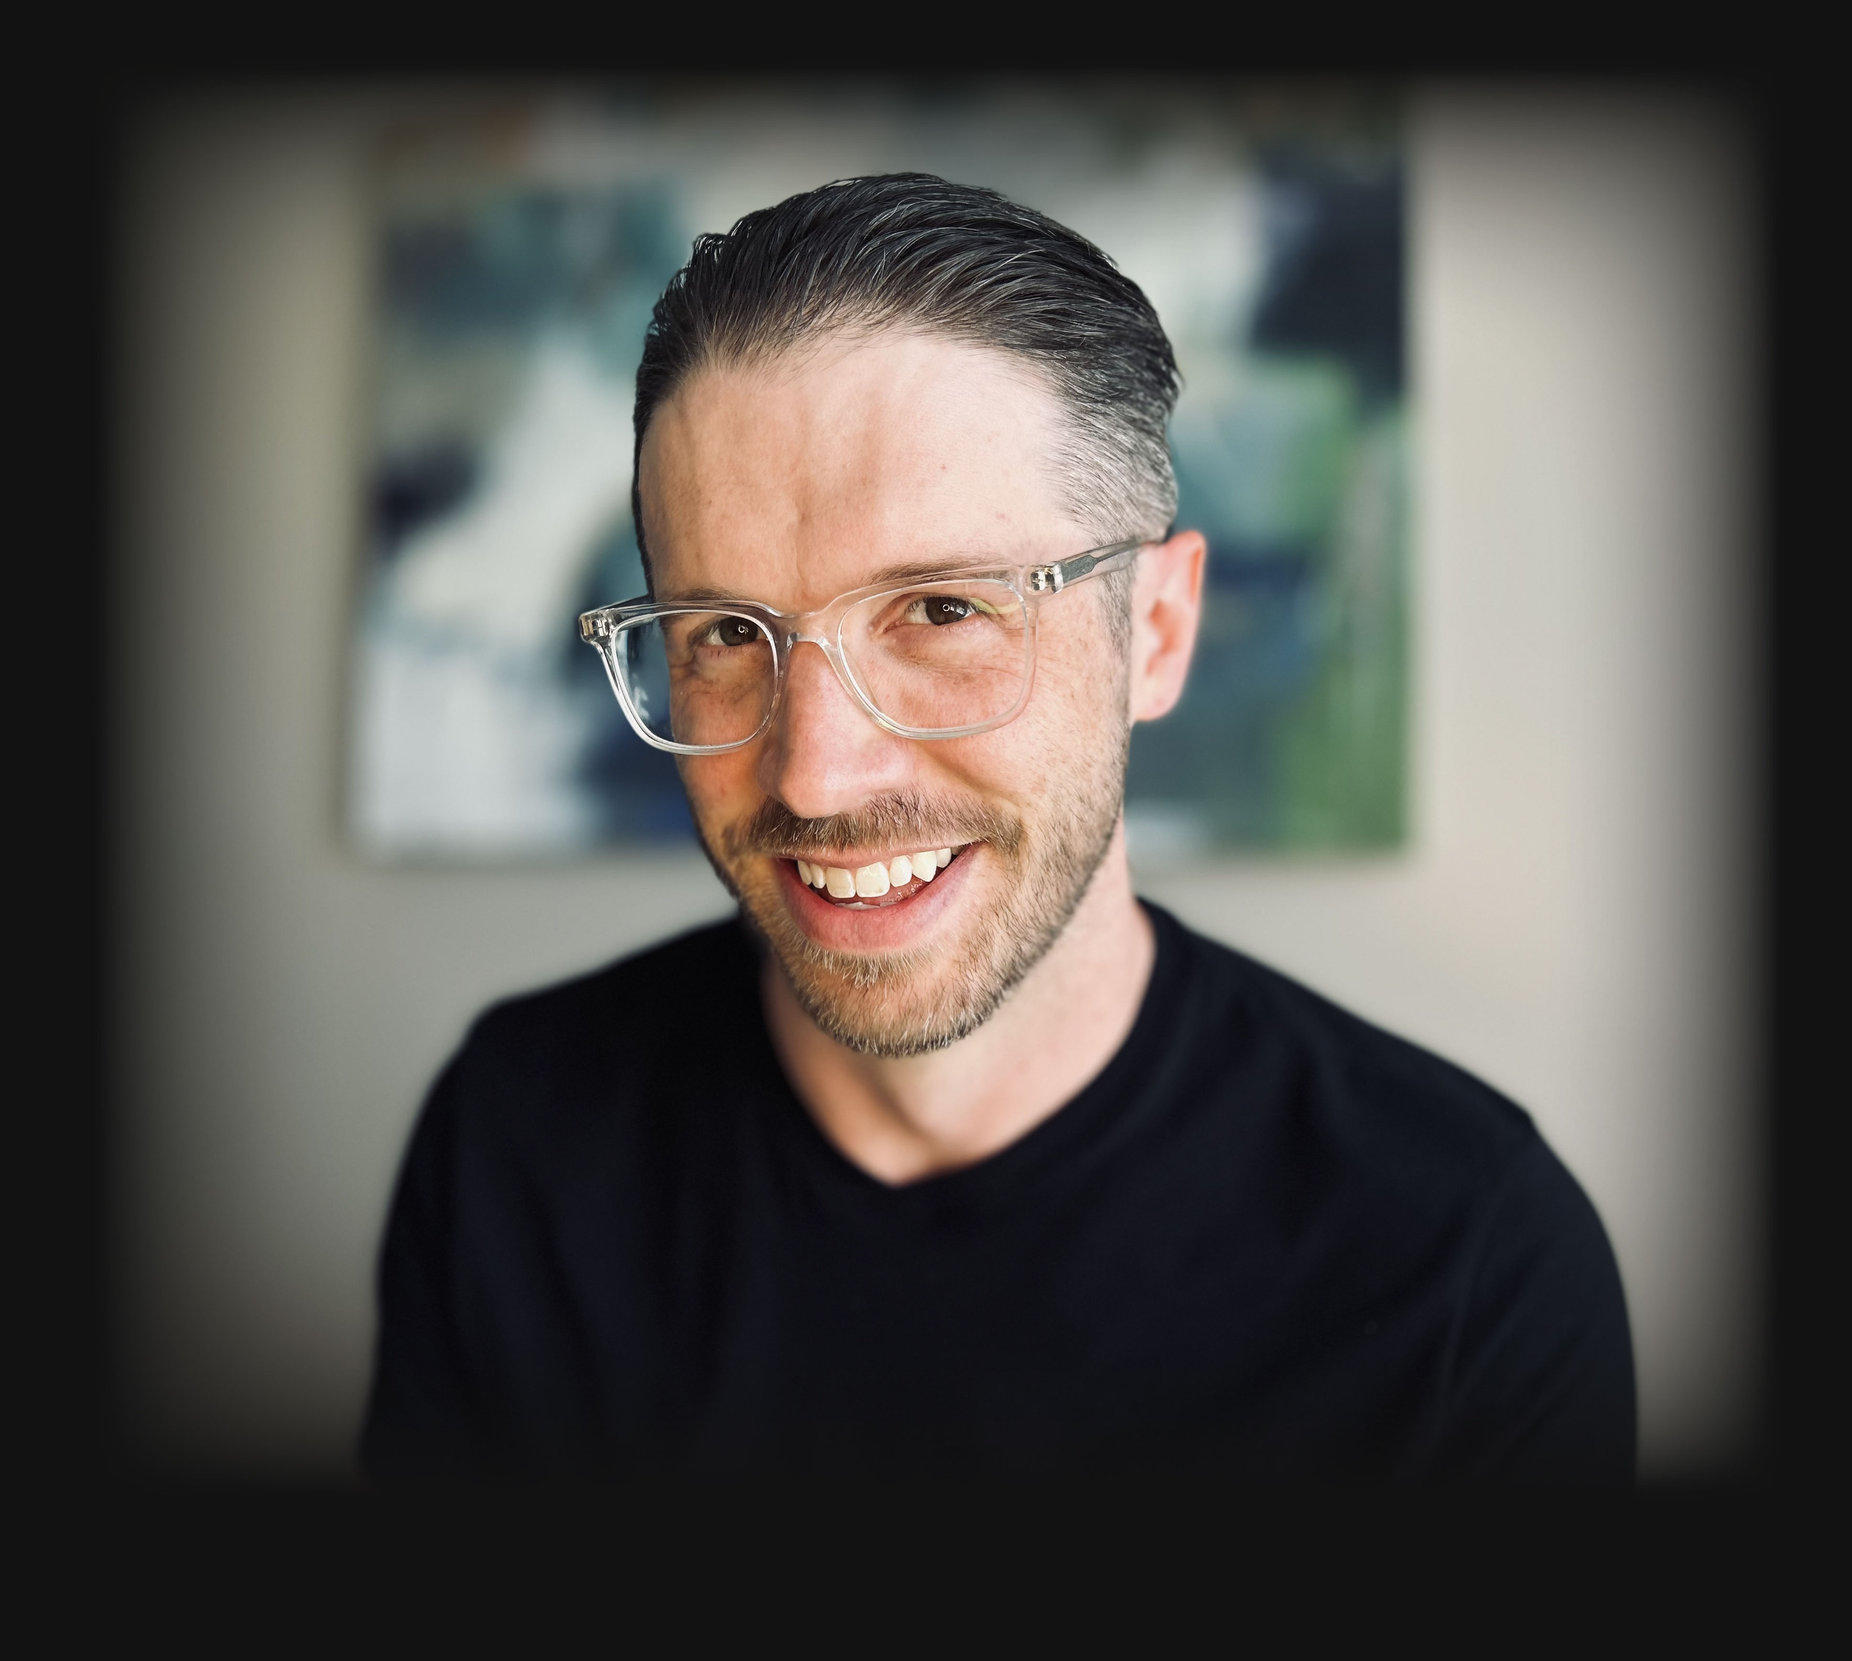
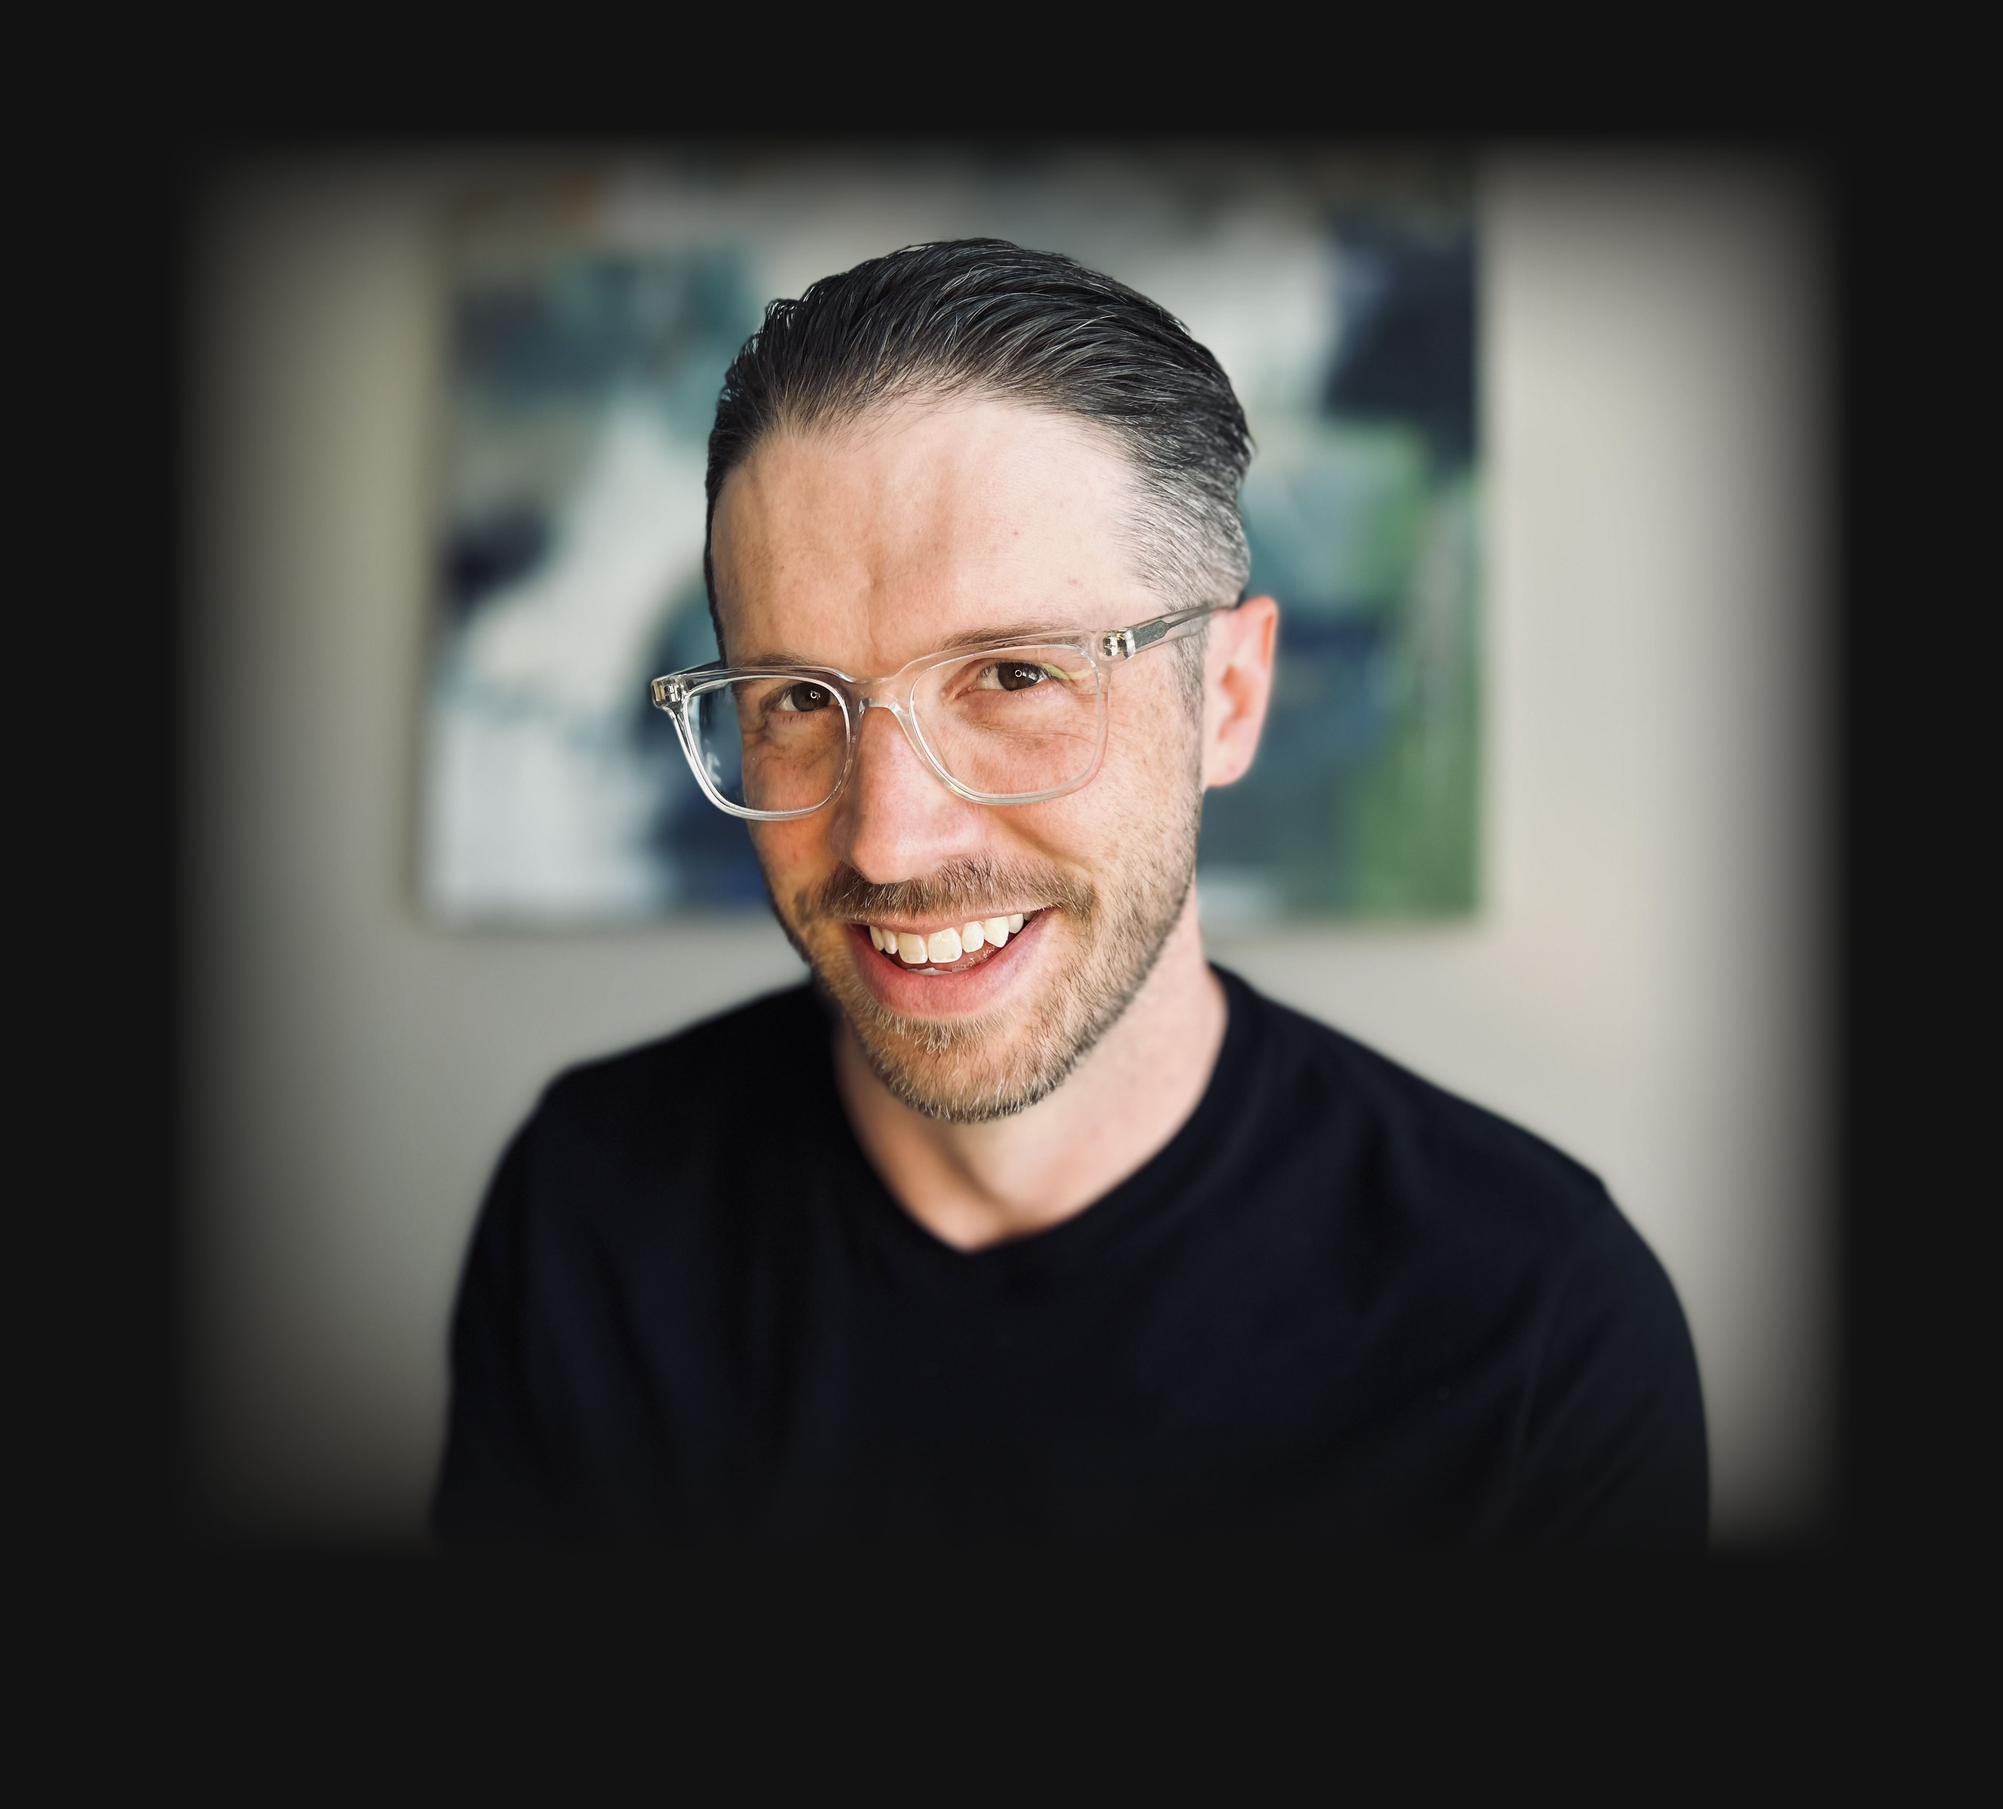
Built site for gh-pages

diff --git a/about.html b/about.html
@@ -156,7 +156,8 @@ ul.task-list li input[type="checkbox"] {
 
 
 
-<!-- <style>
+<!-- 
+<style>
 body {
   background-image: linear-gradient(rgba(0,0,0,0.85), rgba(0,0,0,0.85)), url("img/background-pic.jpg");
   background-size: cover;
@@ -164,28 +165,35 @@ body {
 }
 </style> -->
 <div class="columns">
-<div class="column" style="width:20%;">
+<div class="column" style="width:40%;">
 <div class="quarto-figure quarto-figure-center">
 <figure class="figure">
-<p><img src="img/left-arrow.svg" class="img-fluid quarto-figure quarto-figure-center figure-img" style="width:70.0%"></p>
+<p><img src="img/left-arrow-straight.svg" class="img-fluid quarto-figure quarto-figure-center figure-img" style="width:55.0%"></p>
 </figure>
 </div>
-</div><div class="column" style="width:60%;">
+</div><!-- ::: {.column width="20%"}
+![](img/right-arrow.svg){fig-align='center' width=70%}
+::: --><div class="column" style="width:60%;">
 <div class="quarto-figure quarto-figure-center">
 <figure class="figure">
 <p><img src="img/headshot-blur-01.jpg" class="img-fluid quarto-figure quarto-figure-center figure-img"></p>
 </figure>
 </div>
-</div><div class="column" style="width:20%;">
-<div class="quarto-figure quarto-figure-center">
-<figure class="figure">
-<p><img src="img/right-arrow.svg" class="img-fluid quarto-figure quarto-figure-center figure-img" style="width:70.0%"></p>
-</figure>
-</div>
 </div>
 </div>
 <p>Lorem ipsum dolor sit amet, consectetur adipiscing elit. Curabitur nec eros eget nisl posuere fermentum. Phasellus vitae augue nec justo commodo gravida. Vivamus euismod, nisi a tristique dictum, sapien libero tempor nulla, sit amet dignissim justo elit sit amet lectus. Sed euismod risus a felis facilisis, in tincidunt purus luctus.</p>
+<div class="quarto-figure quarto-figure-center">
+<figure class="figure">
+<p><img src="img/h-bar.svg" class="img-fluid quarto-figure quarto-figure-center figure-img" style="width:30.0%"></p>
+</figure>
+</div>
 <p>Lorem ipsum dolor sit amet, consectetur adipiscing elit. Curabitur nec eros eget nisl posuere fermentum. Phasellus vitae augue nec justo commodo gravida. Vivamus euismod, nisi a tristique dictum, sapien libero tempor nulla, sit amet dignissim justo elit sit amet lectus. Sed euismod risus a felis facilisis, in tincidunt purus luctus. Blah! Blah! Blah! Blah! Blah! Blah! Blah! Blah!</p>
+<div class="quarto-figure quarto-figure-center">
+<figure class="figure">
+<p><img src="img/h-bar-2.svg" class="img-fluid quarto-figure quarto-figure-center figure-img" style="width:30.0%"></p>
+</figure>
+</div>
+<p>Lorem ipsum dolor sit amet, consectetur adipiscing elit. Curabitur nec eros eget nisl posuere fermentum. Phasellus vitae augue nec justo commodo gravida. Vivamus euismod, nisi a tristique dictum, sapien libero tempor nulla, sit amet dignissim justo elit sit amet lectus. Sed euismod risus a felis facilisis, in tincidunt purus luctus.</p>
 
 
 

diff --git a/index.html b/index.html
@@ -157,11 +157,11 @@ ul.task-list li input[type="checkbox"] {
 
 
 <style>
-body {
+/* body {
   background-image: linear-gradient(rgba(0,0,0,0.85), rgba(0,0,0,0.85)), url("img/background-pic.jpg");
   background-size: cover;
   background-repeat: no-repeat;
-}
+} */
 
 #head {
   padding-top: 50px;
